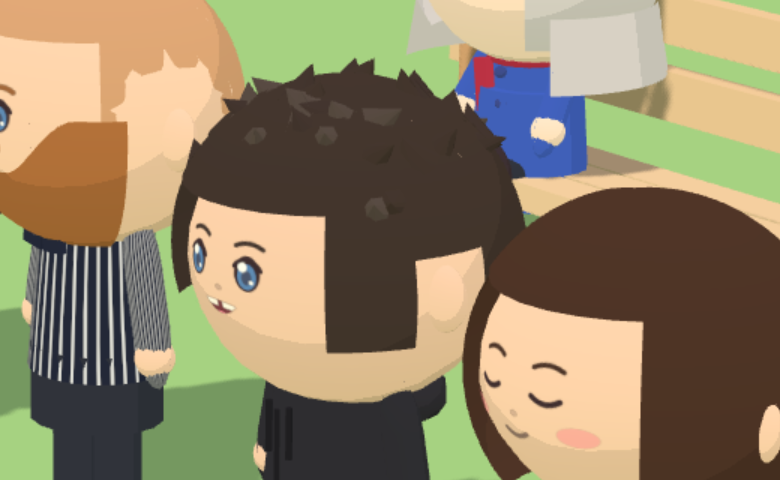
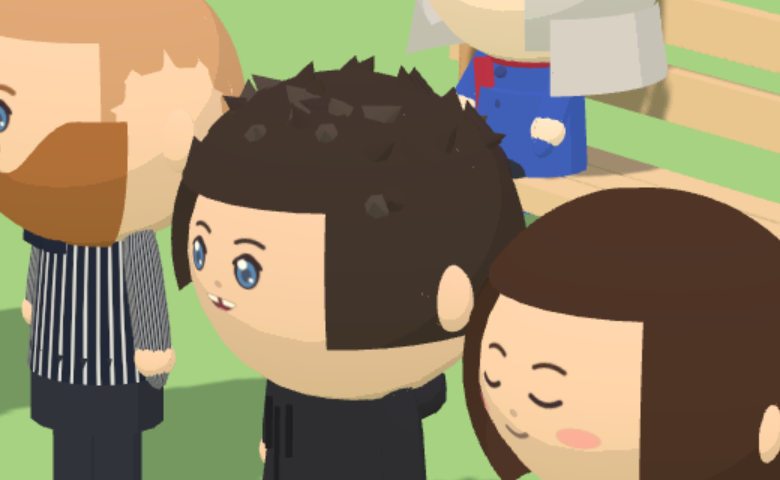
Jens: Seitenhaar komplett, Ohr als kleines Oval im Haar (kein Ausschnitt mehr)
Claude-Session: https://claude.ai/code/session_01ThTYhPHTkGtFy4ue8CC8z3

diff --git a/src/world3d/models/chibi3d.ts b/src/world3d/models/chibi3d.ts
@@ -440,9 +440,10 @@ function addHair(head: THREE.Group, a: Appearance, R: number) {
       // Breitere (kräftigere) Köpfe brauchen etwas größere Kappen, sonst sticht die Haut zackig durch
       const k = Math.max(1, 1 + (a.build - 1) * 0.35);
       topCap(1.1, 1.06 * k);
-      // volles Seitenhaar wie früher bis weit nach unten – nur genau so viel Platz, wie das Ohr braucht, bleibt frei
-      backCap(1.36, 1.05 * k + 0.01);
-      for (const [start, len] of [[FRONT + 0.85, 0.5], [FRONT - 1.35, 0.5], [FRONT + 1.8, Math.PI * 2 - 3.6]] as const) head.add(shell(R * (1.05 * k + 0.01), col, start, len, 0, 1.85));
+      // volles Seitenhaar wie früher; das Ohr schaut als kleines Oval aus dem Haar (wie bei den anderen)
+      const hairR = 1.05 * k + 0.01;
+      backCap(1.85, hairR);
+      for (const sd of [-1, 1]) head.add(part(sphere, a.skinTone, R * 0.17, R * 0.21, R * 0.12, sd * R * hairR * 0.97, -R * 0.05, 0));
       head.add(shell(R * 1.07 * k, col, FRONT - 1.0, 2.0, 0.42, 0.4));
       // abstehende, wuschelige Strähnen / Fransen (nicht direkt am Ohr)
       for (let i = 0; i < 40; i++) {
